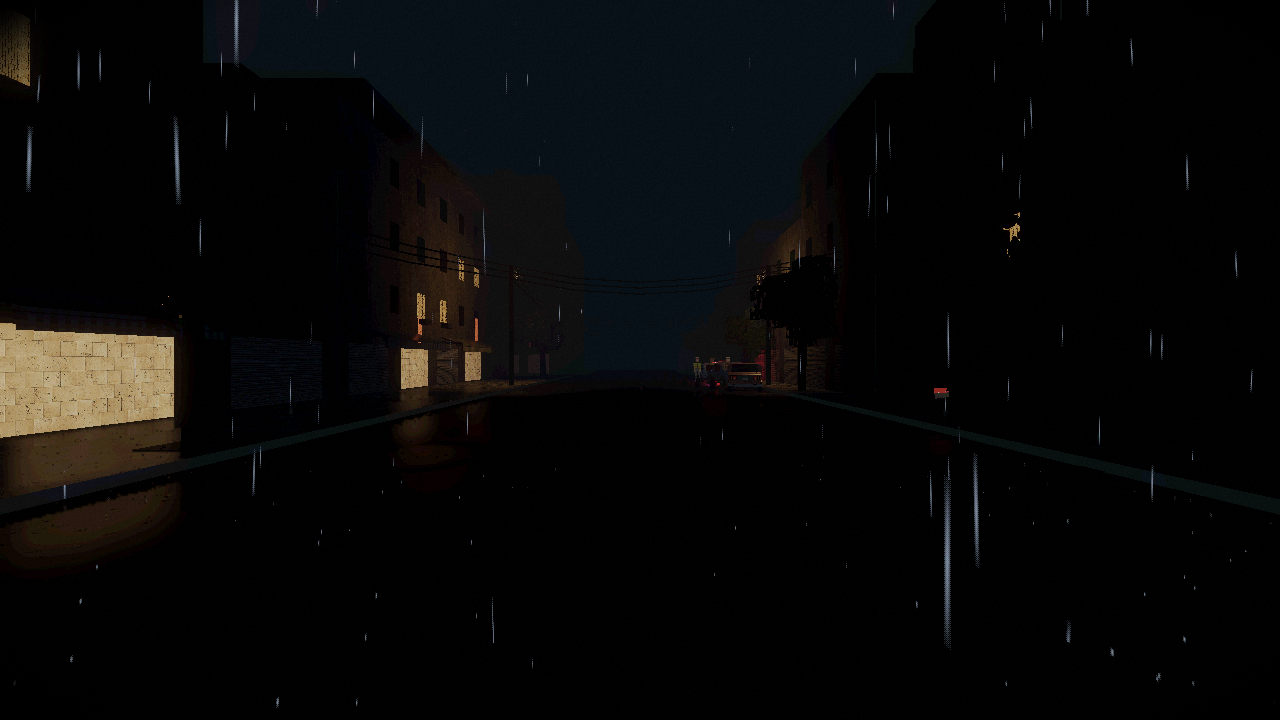
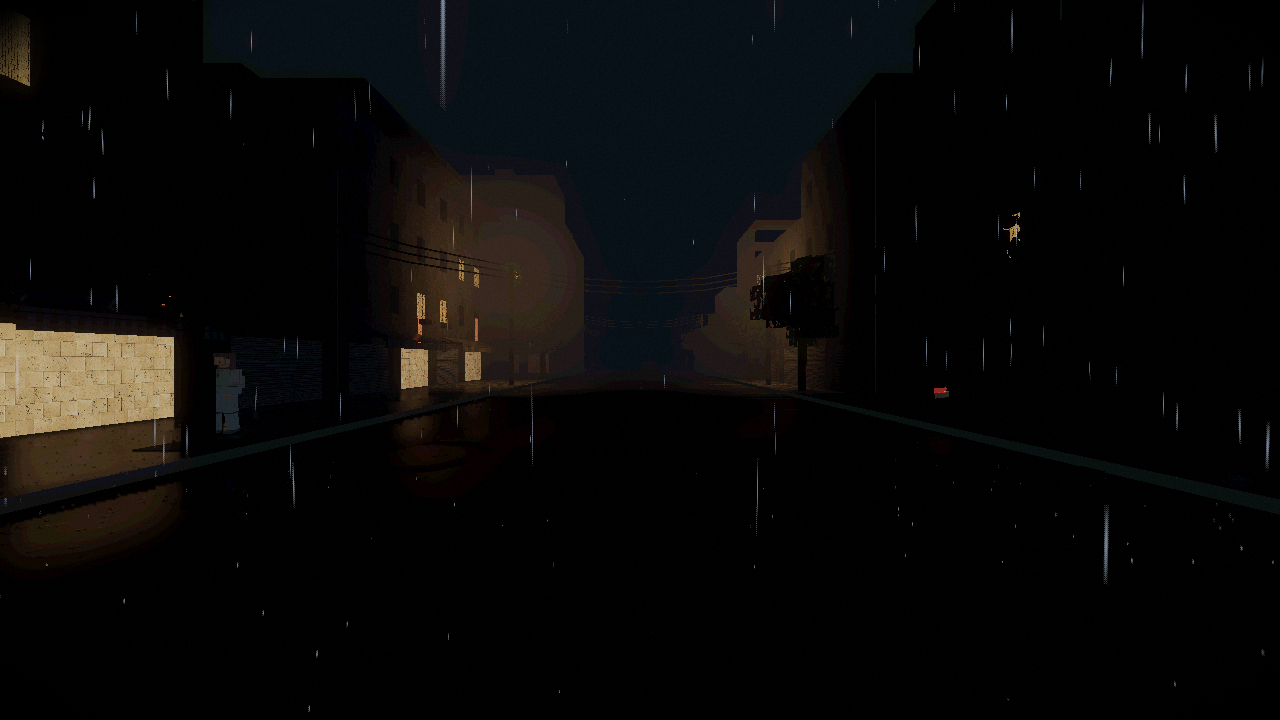
A luz do poste e do farol para de ser um cone de malha no MODERNO
O jogador: "luzes de carro e poste parecem um CONE, da para ver a linha da luz".
Medido na rota `luz`, parada `poste_perto`: o tronco de cone somado acendia
29,9% da tela, com +45,7/255 de media e +162/255 de pico, e apagava o predio
atras dele.

E era redundante. O Forward+ ja desenhava o facho de verdade, em nevoa
volumetrica; o cone somado era uma SEGUNDA camada de ar aceso por cima, essa com
silhueta reta. No MODERNO fica so a de verdade — `Lampada` e `Carro` deixam de
desenhar a malha e passam `light_volumetric_fog_energy = 8` para a propria
lampada e o proprio farol. No PS1 STYLE nada muda: la o cone somado E a tecnica.

So ganha halo quem TINHA cone. A lampada de teto de um comodo nasce com
`facho_visivel = false` e nunca teve cone; dar o mesmo empurrao a ela encheu a
sala de bruma — +11,2/255 em 80% dos blocos do interior da rota. Quem pegou isso
foi a regressao visual, no primeiro uso dela para valer.

O 8 saiu de duas paradas discordando. O contraste do halo contra o ceu cresce
com a energia (8 da 73, 18 da 98, 36 da 124), mas a 4,5 m da lampada — dentro do
halo — o 18 lava o quadro e mostra os aneis da grade da nevoa volumetrica.
Contraste maior num enquadramento nao vale o quadro estragado no outro.

    cone de malha no MODERNO   0% da tela: com e sem `--sem-facho` a cena e a
                               mesma, dentro do ruido (1,17 e 0,92/255)
    PS1 STYLE                  A2 OK, 1,15 a 1,90/255 — inalterado
[…]

diff --git a/PLANO_AAA_4K.md b/PLANO_AAA_4K.md
@@ -382,8 +382,8 @@ de carregamento, não de jogo.
   As referências de `PRINTS/` entram na regressão.
 - **Fecha A11–A14.**
 
-**O facho deixa de ser geometria no MODERNO (A31, A32, A33).** Medido em
-16/09/2026, na rota `luz` (parada `poste_perto`, noite com chuva):
+**O facho deixou de ser geometria no MODERNO — FEITO em 16/09/2026 (A31, A32).**
+Medido na rota `luz` (parada `poste_perto`, noite com chuva):
 
 | | Com o cone somado | Sem ele |
 |---|---|---|
@@ -396,11 +396,37 @@ por cima (`PSXMesh.cone(..., 8, 3)`, `blend_add`); o farol do carro é um
 `SpotLight3D` de 34°. O que o jogador chama de "cone" é a **malha**, não a luz: o
 teste com `--sem-facho` separa os dois e a rua fica correta sem ela.
 
-O plano para o MODERNO: o halo no ar passa a vir de **névoa volumétrica** com
-`light_volumetric_fog_energy` na própria lâmpada e no farol — luz de verdade,
-sem silhueta —, a lâmpada ganha sombra (hoje `shadow_enabled = false`), o farol
-ganha atenuação angular macia, e o cone somado fica **só no PS1 STYLE**, onde é
-o que o console fazia e o ART-BIBLE manda. A chuva dentro do feixe desce.
+**O que foi feito.** No MODERNO o cone de malha não é mais desenhado, nem no
+poste (`Lampada`) nem no carro da cidade (`Carro`): o halo no ar passa a vir da
+**névoa volumétrica**, que o Forward+ já desenhava por baixo dele —
+`light_volumetric_fog_energy = 8` na própria lâmpada e no farol. No PS1 STYLE
+nada muda: lá o cone somado **é** a técnica, e o ART-BIBLE manda.
+
+Só ganha halo quem **tinha** cone. A lâmpada de teto de um cômodo nasce com
+`facho_visivel = false` e nunca teve cone; dar o mesmo empurrão a ela encheu a
+sala de bruma — medido, +11,2/255 em 80% dos blocos do interior da rota, e foi a
+regressão visual que pegou.
+
+O 8 saiu de uma calibração com duas paradas discordando. O contraste do halo
+contra o céu cresce com a energia (8 → 73, 18 → 98, 36 → 124), mas a 4,5 m da
+lâmpada, **dentro** do halo, 18 lava o quadro inteiro e mostra os anéis da grade
+da névoa volumétrica. Contraste maior num enquadramento não vale o quadro
+estragado no outro.
+
+| Depois | Medido |
+|---|---|
+| Cone de malha no MODERNO | **0%** da tela (a cena com e sem `--sem-facho` é a mesma, dentro do ruído: 1,17 e 0,92/255 por bloco) |
+| PS1 STYLE | **A2 OK**, 1,15 a 1,90/255 — inalterado, captura por captura |
+| MODERNO | mudou só onde há poste: avenida 3,12/255 e praça 6,96; viela 1,20 (viela não ganha poste) e interior 0,41. Referências regravadas |
+| Custo | **mais barato**: 228 chamadas contra 243 e 1,1 ms de mediana contra 1,4 — o cone somado era desenho transparente a mais |
+| A33 | já estava resolvido: o `DiretorSombra` acende sombra nas duas lâmpadas mais próximas no MODERNO (`grupo=57 candidatas=3 ligadas=2`), e nenhuma no PS1 |
+| A32 | sinal corrigido em `psx_light_cone.gdshader`. A direção na rua não serve de régua: o `dy=0` domina por causa do poste e dos fios parados, e os dois seguintes são +1 e +2 (para baixo). Uma bancada com o cone contra fundo preto fecha isso na fase da luz |
+
+**O que ficou:** os **anéis** da grade da névoa volumétrica aparecem de perto —
+é resolução de froxel, e entra na Fase 4 com o resto da luz. E o carro da
+cutscene (`CarroCena`) continua com o cone somado de propósito: os planos da
+abertura foram calibrados contra ele, e mexer ali é mexer nas capturas da
+abertura.
 
 ### Fase 5 — Pós, céu e decalques · M
 
